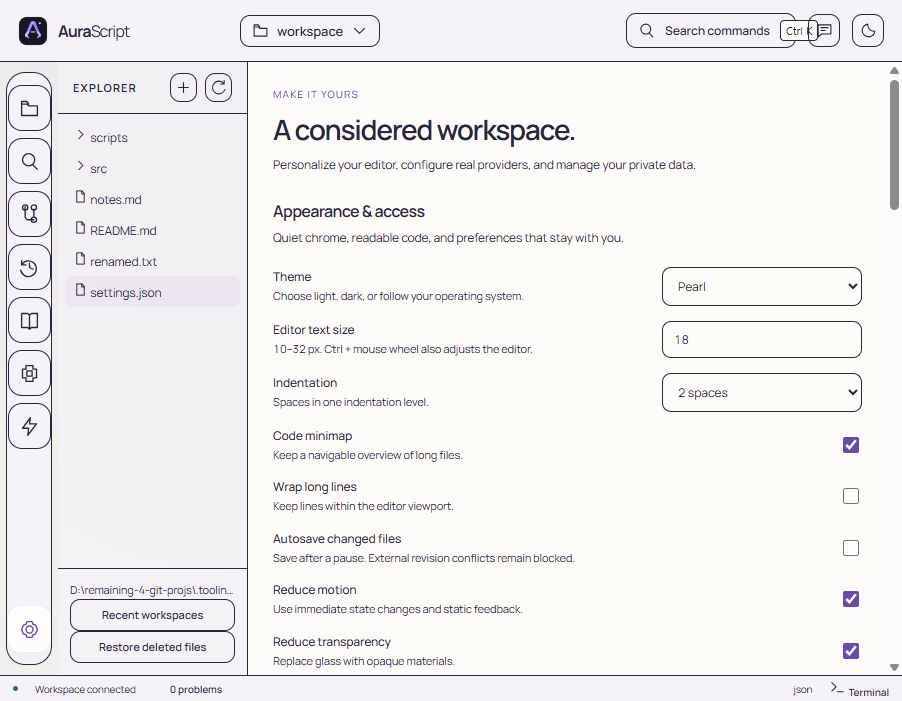
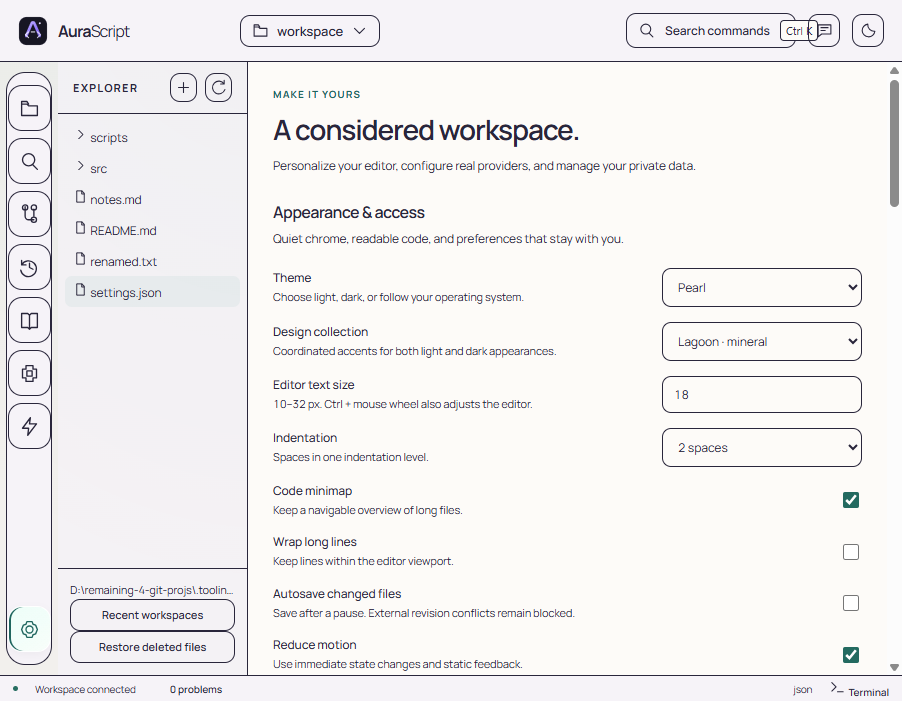
Further refinement - not fully functional

diff --git a/src/renderer/app.js b/src/renderer/app.js
@@ -1,4 +1,5 @@
 import { VoiceInput, stopSpeech, speak, voiceAvailability } from './voice.js';
+import { reveal, reducedMotion, setMotionPreference } from './motion.js';
 
 const $ = (selector, root = document) => root.querySelector(selector);
 const $$ = (selector, root = document) => [...root.querySelectorAll(selector)];
@@ -63,6 +64,7 @@ const date = (value) => (value ? new Date(value).toLocaleString() : '');
 const state = {
   settings: {
     theme: 'system',
+    collection: 'amethyst',
     fontSize: 14,
     minimap: true,
     wordWrap: false,
@@ -111,6 +113,7 @@ let editor,
 const modelListeners = new Map();
 let paletteCommands = [],
   paletteIndex = 0;
+let paintedConversation = null, paintedMessageCount = 0;
 
 function toast(message, type = 'good', duration = 5500) {
   const node = document.createElement('div');
@@ -131,12 +134,16 @@ function applySettings() {
   const chosen =
     s.theme === 'system' ? (matchMedia('(prefers-color-scheme:dark)').matches ? 'dark' : 'light') : s.theme;
   document.documentElement.dataset.theme = chosen;
+  document.documentElement.dataset.collection = ['amethyst', 'lagoon', 'copper'].includes(s.collection) ? s.collection : 'amethyst';
+  setMotionPreference(s.reducedMotion);
   document.documentElement.dataset.reduceMotion = Boolean(s.reducedMotion);
   document.documentElement.dataset.reduceTransparency = Boolean(s.reducedTransparency);
   document.documentElement.dataset.highContrast = Boolean(s.highContrast);
   document.documentElement.style.setProperty('--scale', s.uiScale || 1);
   if (monaco) {
-    monaco.editor.setTheme(chosen === 'light' ? 'aura-light' : 'aura-dark');
+    monaco.editor.setTheme(s.highContrast || matchMedia('(forced-colors: active)').matches
+      ? chosen === 'light' ? 'hc-light' : 'hc-black'
+      : chosen === 'light' ? 'aura-light' : 'aura-dark');
     editor?.updateOptions({
       fontSize: Number(s.fontSize) || 14,
       lineHeight: Math.round((Number(s.fontSize) || 14) * 1.65),
@@ -145,8 +152,8 @@ function applySettings() {
       wordWrap: s.wordWrap ? 'on' : 'off',
       minimap: { enabled: s.minimap !== false },
       accessibilitySupport: 'auto',
-      smoothScrolling: !s.reducedMotion,
-      cursorSmoothCaretAnimation: s.reducedMotion ? 'off' : 'on',
+      smoothScrolling: !reducedMotion(),
+      cursorSmoothCaretAnimation: reducedMotion() ? 'off' : 'on',
     });
   }
   const toggle = $('#theme-toggle');
@@ -183,6 +190,7 @@ function shell() {
   applySettings();
 }
 function setView(view) {
+  const changed = state.view !== view;
   state.view = view;
   $('#editor-layout').classList.toggle('hidden', view !== 'editor');
   $('#page').classList.toggle('hidden', view === 'editor');
@@ -192,6 +200,7 @@ function setView(view) {
   if (view === 'editor') {
     editor?.layout();
   } else renderPage();
+  if (changed) reveal(view === 'editor' ? $('#editor-toolbar') : $('#page'));
   persistSession();
 }
 function nav(view) {
@@ -359,12 +368,19 @@ function renderSidebar() {
   if (!side) return;
   side.setAttribute('aria-label', `${state.sidebar} sidebar`);
   if (state.sidebar === 'explorer') {
-    side.innerHTML = `<div class="pane-head"><span class="pane-title grow">Explorer</span>${button('new-file', '', { id: 'new-file', className: 'icon-button ghost', iconName: 'plus', title: 'Create file or folder' })}${button('refresh-tree', '', { className: 'icon-button ghost', iconName: 'refresh', title: 'Refresh files' })}</div><div class="pane-body tree" id="file-tree">${state.workspace ? treeRows() || '<div class="tree-empty">This workspace is empty.<br>Create your first file to begin.</div>' : '<div class="tree-empty">Choose a local folder to open your workspace. Files stay on your computer.</div>'}</div><div class="sidebar-footer"><div class="ellipsis" title="${attr(state.workspace || '')}">${esc(state.workspace || 'A quiet place to build.')}</div>${button('recent-workspaces', 'Recent workspaces', { id: 'recent-workspaces', className: 'ghost small' })}${button('trash-list', 'Restore deleted files', { id: 'open-trash', className: 'ghost small' })}</div>`;
+    const tree = side.dataset.paneView === 'explorer' && $('#file-tree', side);
+    if (tree) {
+      tree.innerHTML = state.workspace ? treeRows() || '<div class="tree-empty">This workspace is empty.<br>Create your first file to begin.</div>' : '<div class="tree-empty">Choose a local folder to open your workspace. Files stay on your computer.</div>';
+      const label = $('.sidebar-footer .ellipsis', side);
+      label.textContent = state.workspace || 'A quiet place to build.';
+      label.title = state.workspace || '';
+    } else side.innerHTML = `<div class="pane-head"><span class="pane-title grow">Explorer</span>${button('new-file', '', { id: 'new-file', className: 'icon-button ghost', iconName: 'plus', title: 'Create file or folder' })}${button('refresh-tree', '', { className: 'icon-button ghost', iconName: 'refresh', title: 'Refresh files' })}</div><div class="pane-body tree" id="file-tree">${state.workspace ? treeRows() || '<div class="tree-empty">This workspace is empty.<br>Create your first file to begin.</div>' : '<div class="tree-empty">Choose a local folder to open your workspace. Files stay on your computer.</div>'}</div><div class="sidebar-footer"><div class="ellipsis" title="${attr(state.workspace || '')}">${esc(state.workspace || 'A quiet place to build.')}</div>${button('recent-workspaces', 'Recent workspaces', { id: 'recent-workspaces', className: 'ghost small' })}${button('trash-list', 'Restore deleted files', { id: 'open-trash', className: 'ghost small' })}</div>`;
   } else if (state.sidebar === 'search') {
     side.innerHTML = `<div class="pane-head"><span class="pane-title grow">Find in workspace</span>${button('refresh-search', '', { className: 'icon-button ghost', iconName: 'refresh', title: 'Run search' })}</div><form id="search-form" class="search-controls"><label class="sr-only" for="search-query">Find text</label><input id="search-query" placeholder="Find literal text" value="${attr(state.search.query)}"><label class="sr-only" for="search-replacement">Replace with</label><input id="search-replacement" placeholder="Replace with" value="${attr(state.search.replacement)}"><label class="row small"><input type="checkbox" id="search-case" ${state.search.caseSensitive ? 'checked' : ''}> Match case</label><div class="row"><button type="submit" class="primary grow">Find</button>${button('replace-search', 'Replace selected', { id: 'replace-search', className: 'grow' })}</div><div class="small muted">Literal search • selected matches only • revision checked</div></form><div class="pane-body" style="padding:0" id="search-results">${renderSearchMatches()}</div>`;
   } else if (state.sidebar === 'git') {
     side.innerHTML = `<div class="pane-head"><span class="pane-title grow">Source control</span>${button('refresh-git', '', { className: 'icon-button ghost', iconName: 'refresh', title: 'Refresh Git' })}</div><div class="pane-body" id="git-panel" style="padding:0">${renderGit()}</div>`;
   }
+  side.dataset.paneView = state.sidebar;
   if (focusId) {
     const restored = document.getElementById(focusId);
     if (restored && side.contains(restored)) {
@@ -565,6 +581,7 @@ async function openFile(path, line, column = 1) {
   document.body.classList.remove('sidebar-mobile-open');
 }
 function activateFile(path) {
+  const changed = state.activeFile !== path;
   if (editor) {
     const previous = state.files.get(state.activeFile);
     if (previous) previous.viewState = editor.saveViewState();
@@ -579,6 +596,7 @@ function activateFile(path) {
   setView('editor');
   renderTabs();
   renderToolbar();
+  if (changed) reveal($('#editor-toolbar'), 'file');
   renderSidebar();
   renderProblems();
   persistSession();
@@ -800,6 +818,7 @@ async function reloadFile() {
   f.external = false;
   renderTabs();
   persistSession();
+  editor?.focus();
 }
 async function compareDisk() {
   const f = state.files.get(state.activeFile);
@@ -825,6 +844,7 @@ async function compareDisk() {
       toast('Buffer rebased. Review and Save to write it.', 'warning');
     }
   });
+  editor?.focus();
 }
 async function checkDiagnostics() {
   const f = state.files.get(state.activeFile);
@@ -901,6 +921,7 @@ function dialog({
       finish(formData);
     };
     d.showModal();
+    reveal(d, 'sheet');
     const input = $('input,textarea,select', d);
     if (input) setTimeout(() => input.focus(), 0);
   });
@@ -941,6 +962,7 @@ async function guard(fn) {
 function renderBottom() {
   const panel = $('#bottom-panel');
   if (!panel) return;
+  const opened = panel.classList.contains('hidden') && state.bottomOpen;
   panel.classList.toggle('hidden', !state.bottomOpen);
   panel.innerHTML = `<div class="bottom-head">${button('bottom:terminal', 'Terminal', { id: 'show-terminal', className: state.bottom === 'terminal' ? 'active' : '' })}${button('bottom:diagnostics', `Problems <span class="badge">${problems().length}</span>`, { className: state.bottom === 'diagnostics' ? 'active' : '' })}<span class="grow"></span>${
     state.bottom === 'terminal'
@@ -956,6 +978,7 @@ function renderBottom() {
       : ''
   }${button('close-bottom', '', { className: 'icon-button ghost', iconName: 'close', title: 'Close bottom panel' })}</div><div id="bottom-content" class="${state.bottom === 'terminal' ? 'terminal-body' : 'grow'}">${state.bottom === 'terminal' ? terminalOutput() : ''}</div>${state.bottom === 'terminal' ? `<form id="terminal-form" class="terminal-input"><span class="prompt">›</span><label class="sr-only" for="terminal-command">Terminal command</label><input id="terminal-command" autocomplete="off" spellcheck="false" placeholder="Run a command in this workspace…" ${state.workspace ? '' : 'disabled'}><button type="submit" class="primary" id="terminal-run">Run</button></form>` : ''}`;
   if (state.bottom === 'diagnostics') renderProblems();
+  if (opened) reveal(panel);
 }
 function terminalOutput() {
   const p = state.processes.get(state.activeProcess);
@@ -1117,16 +1140,38 @@ function formatMessage(text) {
 function renderAssistant(scroll = true) {
   const content = $('#assistant-content');
   if (!content) return;
+  const sameConversation = paintedConversation === state.conversationId;
+  const follow = !sameConversation || content.scrollTop + content.clientHeight >= content.scrollHeight - 60;
+  const firstNew = sameConversation ? paintedMessageCount : state.messages.length;
   if (!state.messages.length) {
     content.innerHTML = `<div class="chat-empty"><div class="eyebrow">Your coding companion</div><h2>Make room for your next good idea.</h2><p>Ask a question, review a selection, or reason through a change. Choose a local or cloud provider in Preferences. Attached context is always visible.</p>${button('suggest:review', 'Review the current file', { className: 'suggestion' })}${button('suggest:explain', 'Help me understand this code', { className: 'suggestion' })}${button('nav:settings', 'Set up my AI provider', { className: 'suggestion' })}<p class="small">AI proposals require your review. Commands run only with your approval.</p></div>`;
-  } else
-    content.innerHTML = state.messages
+  } else {
+    const markup = state.messages
       .map(
         (m, i) =>
           `<article class="chat-message ${attr(m.role || 'assistant')} ${m.error ? 'error' : ''}" data-testid="chat-message"><div class="message-label">${m.role === 'user' ? 'You' : 'Aura'} ${m.streaming ? '<span class="spinner"></span>' : ''}<span class="message-time">${esc(date(m.createdAt || m.timestamp))}</span></div><div class="message-text">${formatMessage(m.content ?? m.text ?? '')}</div>${m.proposals?.map((p, j) => `<div class="proposal"><h3>${esc(p.path || p.title || 'Proposed change')}</h3><p>${esc(p.summary || 'Review the complete replacement before applying. This proposal is untrusted AI output.')}</p><div class="row">${button('proposal-review', 'Review patch', { data: `data-message="${i}" data-index="${j}"` })}<span class="badge">No automatic execution</span></div></div>`).join('') || ''}${m.role !== 'user' && !m.streaming && !m.error ? `<div class="row" style="margin-top:8px">${button('speak-message', 'Read aloud', { className: 'ghost small', data: `data-index="${i}"` })}${button('copy-message', 'Copy', { className: 'ghost small', data: `data-index="${i}"` })}</div>` : ''}</article>`,
       )
       .join('');
-  if (scroll) content.scrollTop = state.messages.length ? content.scrollHeight : 0;
+    const fragment = document.createElement('template');
+    fragment.innerHTML = markup;
+    const desired = [...fragment.content.children];
+    const existing = [...content.querySelectorAll('.chat-message')];
+    if (sameConversation && existing.length && existing.length <= desired.length) {
+      desired.forEach((node, index) => {
+        const retained = existing[index];
+        if (retained) {
+          retained.className = node.className;
+          if (retained.innerHTML !== node.innerHTML) retained.innerHTML = node.innerHTML;
+        } else { content.append(node); reveal(node, 'file'); }
+      });
+    } else {
+      content.replaceChildren(...desired);
+      desired.slice(firstNew).forEach((node) => reveal(node, 'file'));
+    }
+  }
+  paintedConversation = state.conversationId;
+  paintedMessageCount = state.messages.length;
+  if (scroll && follow) content.scrollTop = state.messages.length ? content.scrollHeight : 0;
   const running = !!state.turnId;
   $('#send-message').classList.toggle('hidden', running);
   $('#stop-generation').classList.toggle('hidden', !running);
@@ -1571,7 +1616,8 @@ function renderSettings() {
         ['dark', 'Graphite'],
         ['light', 'Pearl'],
       ],
-    )}<div class="setting-row"><label for="setting-fontSize"><strong>Editor text size</strong><small>10–32 px. Ctrl + mouse wheel also adjusts the editor.</small></label><input id="setting-fontSize" data-setting="fontSize" type="number" min="10" max="32" value="${s.fontSize || 14}"></div>${selectSetting(
+    )}
+${selectSetting('collection', 'Design collection', 'Coordinated accents for both light and dark appearances.', [['amethyst', 'Amethyst · editorial'], ['lagoon', 'Lagoon · mineral'], ['copper', 'Copper · atelier']])}<div class="setting-row"><label for="setting-fontSize"><strong>Editor text size</strong><small>10–32 px. Ctrl + mouse wheel also adjusts the editor.</small></label><input id="setting-fontSize" data-setting="fontSize" type="number" min="10" max="32" value="${s.fontSize || 14}"></div>${selectSetting(
       'tabSize',
       'Indentation',
       'Spaces in one indentation level.',
@@ -1769,8 +1815,9 @@ async function toggleTheme() {
   if (state.view === 'settings') renderSettings();
 }
 function toggleBottom(tab) {
+  const switching = !!tab && state.bottom !== tab;
   state.bottom = tab || state.bottom;
-  state.bottomOpen = !state.bottomOpen || state.bottom !== tab;
+  state.bottomOpen = switching || !state.bottomOpen;
   setView('editor');
   renderBottom();
   persistSession();
@@ -2400,6 +2447,8 @@ async function boot() {
   }
 }
 boot();
+matchMedia('(prefers-reduced-motion: reduce)').addEventListener('change', applySettings);
+matchMedia('(forced-colors: active)').addEventListener('change', applySettings);
 
 // Pointer highlights update only the floating interaction material, at most once per frame.
 (() => {

diff --git a/src/renderer/styles.css b/src/renderer/styles.css
@@ -28,6 +28,7 @@
   --ambient: #c7a66c08;
   --radius: 16px;
   --motion: 240ms;
+  --ease-out: cubic-bezier(.22, 1, .36, 1);
   --scale: 1;
   --font-size: 13px;
   --editor-size: 14px;
@@ -52,6 +53,22 @@ html[data-theme='light'] {
   --shadow: 0 24px 72px #43324f13, 0 4px 16px #43324f09;
   --card-shadow: 0 4px 18px #43324f06, inset 0 1px 0 #ffffffdb;
   --ambient: #b89a6912;
+}
+html[data-collection='lagoon'] {
+  --accent: #9bdcc9; --accent-solid: #247568; --accent-wash: #76c9b51c;
+  --glass: #202c31e6; --glass-rim: #d8fff02c; --glass-glint: #c2efdc13; --ambient: #63c5ba0c;
+}
+html[data-collection='lagoon'][data-theme='light'] {
+  --accent: #20665f; --accent-solid: #236a60; --accent-wash: #2b918110;
+  --glass: #f8fffbe6; --glass-rim: #ffffffed; --glass-glint: #e7fff7ad; --ambient: #439e8910;
+}
+html[data-collection='copper'] {
+  --accent: #edc49e; --accent-solid: #8b5d3b; --accent-wash: #daa7751a;
+  --glass: #30282be6; --glass-rim: #ffe5ce30; --glass-glint: #fbd9b712; --ambient: #d6a26e10;
+}
+html[data-collection='copper'][data-theme='light'] {
+  --accent: #875733; --accent-solid: #875733; --accent-wash: #b7804b10;
+  --glass: #fffaf3e6; --glass-rim: #fffffff0; --glass-glint: #fff4dfad; --ambient: #b9804911;
 }
 * {
   box-sizing: border-box;
@@ -931,7 +948,7 @@ p {
 }
 .chat-message {
   margin-bottom: 19px;
-  animation: appear var(--motion) ease;
+  animation: none;
 }
 .chat-message .message-label {
   font-size: 10px;
@@ -2035,4 +2052,31 @@ html[data-high-contrast='true']
     margin-inline: 3px;
     border-radius: 15px;
   }
+}
+
+/* Atelier motion stays on controls and panels; source text never slides on edits. */
+.app :is(button, .tree-row, .tab, .card, .setting-row) {
+  transition: background-color 150ms ease, border-color 150ms ease, color 150ms ease,
+    box-shadow 180ms ease, transform 150ms var(--ease-out);
+}
+.page-header h1 { font-weight: 610; letter-spacing: -.04em; text-wrap: balance; }
+.page-header p { line-height: 1.75; }
+.pane-title, .eyebrow { letter-spacing: .11em; font-weight: 700; }
+.assistant-orb { background: radial-gradient(circle at 32% 24%, #ffffffd6, var(--accent) 35%, var(--accent-solid) 80%); }
+.tab.active { box-shadow: inset 0 2px 0 var(--accent), inset 0 -1px 0 var(--line-strong); }
+.rail button.active { box-shadow: inset 2px 0 0 var(--accent), 0 3px 10px #00000009; }
+.setting-row:focus-within { border-color: var(--accent); }
+dialog[open] { animation: none; }
+.toast { animation: atelier-notice 220ms var(--ease-out); }
+@keyframes atelier-notice { from { opacity: .4; transform: translateY(-7px); } to { opacity: 1; transform: translateY(0); } }
+@media (hover: hover) and (pointer: fine) {
+  .card:has(button):hover { border-color: var(--line-strong); box-shadow: var(--card-shadow); }
+  .rail button:not(.active):hover { transform: translateX(1px); }
+}
+html[data-reduce-motion='true'] :is(.app *, .toast),
+html[data-reduce-motion='true'] *::before, html[data-reduce-motion='true'] *::after {
+  animation: none !important; transition: none !important; scroll-behavior: auto !important;
+}
+@media (prefers-reduced-motion: reduce) {
+  :is(.app *, .toast), *::before, *::after { animation: none !important; transition: none !important; scroll-behavior: auto !important; }
 }

diff --git a/src/renderer/motion.js b/src/renderer/motion.js
@@ -1,0 +1,28 @@
+/* Short compositor transitions; active buffers, focus and scroll remain in place. */
+const running = new Set();
+const active = new WeakMap();
+const systemMotion = matchMedia('(prefers-reduced-motion: reduce)');
+let userReduced = false;
+export const reducedMotion = () => userReduced || systemMotion.matches;
+function stop() {
+  if (reducedMotion()) for (const animation of running) animation.cancel();
+}
+systemMotion.addEventListener('change', stop);
+export function setMotionPreference(value) {
+  userReduced = value === true;
+  stop();
+}
+export function reveal(surface, kind = 'pane') {
+  if (!surface || !surface.isConnected || !surface.animate || reducedMotion()) return;
+  active.get(surface)?.cancel();
+  const offset = kind === 'sheet' ? 12 : kind === 'file' ? 3 : 7;
+  const animation = surface.animate(
+    [{ opacity: 0.6, transform: `translateY(${offset}px)` }, { opacity: 1, transform: 'translateY(0)' }],
+    { duration: kind === 'file' ? 160 : kind === 'sheet' ? 260 : 240, easing: 'cubic-bezier(.22,1,.36,1)' },
+  );
+  active.set(surface, animation);
+  running.add(animation);
+  const release = () => { running.delete(animation); if (active.get(surface) === animation) active.delete(surface); };
+  animation.addEventListener('finish', release, { once: true });
+  animation.addEventListener('cancel', release, { once: true });
+}

diff --git a/docs/PREMIUM-MOTION-2026-10-06.md b/docs/PREMIUM-MOTION-2026-10-06.md
@@ -1,0 +1,17 @@
+# AuraScript motion and design collections · October 6, 2026
+
+AuraScript now has three coordinated, persisted collections: **Amethyst · editorial**, **Lagoon · mineral**, and **Copper · atelier**. Each works in light/dark/system appearance and retains the locally bundled Manrope interface face, clear code typography and opaque editor canvas. Controls, focus rings, glass rims, the orb and selected states use the same collection roles.
+
+Navigation reveals a new pane in 240 ms. Dialogs rise into place in 260 ms, selected-file toolbars settle in 160 ms, and actual notifications appear in 220 ms. These finite transitions use opacity/transform and leave models, scroll positions, focus, terminal processes and data intact. Steady code editing has no page entrance animation. The assistant retains message rows while streaming; incoming rows receive one short entrance and existing text avoids repeated fades. Scrolled-back transcripts remain where you are reading.
+
+Reduce motion cancels current transitions and makes future changes immediate. Operating-system reduced motion also controls Monaco scrolling/caret behavior. High contrast selects Monaco's actual accessible themes; reduced transparency keeps the interaction layer solid. Explorer controls remain attached while file rows refresh, preserving clicks and focus during asynchronous filesystem updates. Reviewed disk-change actions return focus to the editor. Switching between terminal and diagnostics opens the requested pane consistently.
+
+## Manual inspection
+
+1. Launch the current source with `npm start`, or the rebuilt Windows executable/installer. Open a disposable project using the native folder picker.
+2. Open Preferences and choose each Design collection. Compare light and dark. Expect mint/mineral Lagoon, warm metal Copper, and lavender Amethyst across controls and the assistant orb. Reload/relaunch: your selected collection should remain active.
+3. Visit History, Knowledge, Memory and Workflows. Panels should settle quickly, without resetting saved work. Open a create/edit dialog and dismiss it with Escape. Focus should return to a useful control or editor.
+4. Open two files, edit/save with Ctrl+S, switch terminal/diagnostics, stop a long process, and inspect a Git checkpoint. Actual disk bytes/output/diffs remain the functional result. Create, rename, trash and restore a test file; explorer actions remain usable as rows update.
+5. Enable Reduce motion, Reduce transparency and High contrast. Repeat navigation/dialogs, enlarge editor text and use the compact layout. Motion should stop, glass should become opaque, and source-code contrast should strengthen. Also test the operating-system reduced-motion preference.
+
+The [complete manual guide](MANUAL-TESTING.md) covers provider consent, physical audio, reminders and every capability. Current source/package counts, screenshots, exact artifacts and cleanup are recorded in [release checksums](../dist/release-checksums.json) and the workspace motion report. Packages are unsigned; reference-device frame rate and physical hardware remain separate acceptance gates.

diff --git a/README.md b/README.md
@@ -1,5 +1,7 @@
 # AuraScript
 
+See [the current motion and design collections](docs/PREMIUM-MOTION-2026-10-06.md) for visual expectations, accessibility and manual inspection of the refreshed app.
+
 AuraScript is a standalone desktop coding workspace built with Electron, Monaco, and a local persistence layer. Its glass navigation, focused editor, searchable project files, streaming terminal, Git tools, and assistant share one application. It does not require the Wednesday or Jarvis backend.
 
 Install Node.js 22.12 or later and Git. Python 3 is optional for Python syntax checks. To enable local AI, install Ollama separately, start it, and download a model that fits your machine. Cloud models require your own provider key; unavailable providers return a visible error.

diff --git a/docs/VERIFICATION.md b/docs/VERIFICATION.md
@@ -2,6 +2,8 @@
 
 This file records executed checks for the new standalone repository. It does not reuse acceptance results from the earlier editor under JarvisAI.
 
+The latest [motion and collection refinement](PREMIUM-MOTION-2026-10-06.md) passed 37 Node tests and 21 groups each in source and rebuilt Windows package, with zero renderer exceptions. All 30 runtime/asset files match current source. The packaged run includes actual operating-system reduced-motion cancellation; prior source results exercised saved reduction and bounded pane animation. Current hashes are in `dist/release-checksums.json`; older dated tables below retain their historical scope.
+
 ## Fresh local audit on 2026-10-05, with dated historical inference
 
 | Check | Result | Evidence |
